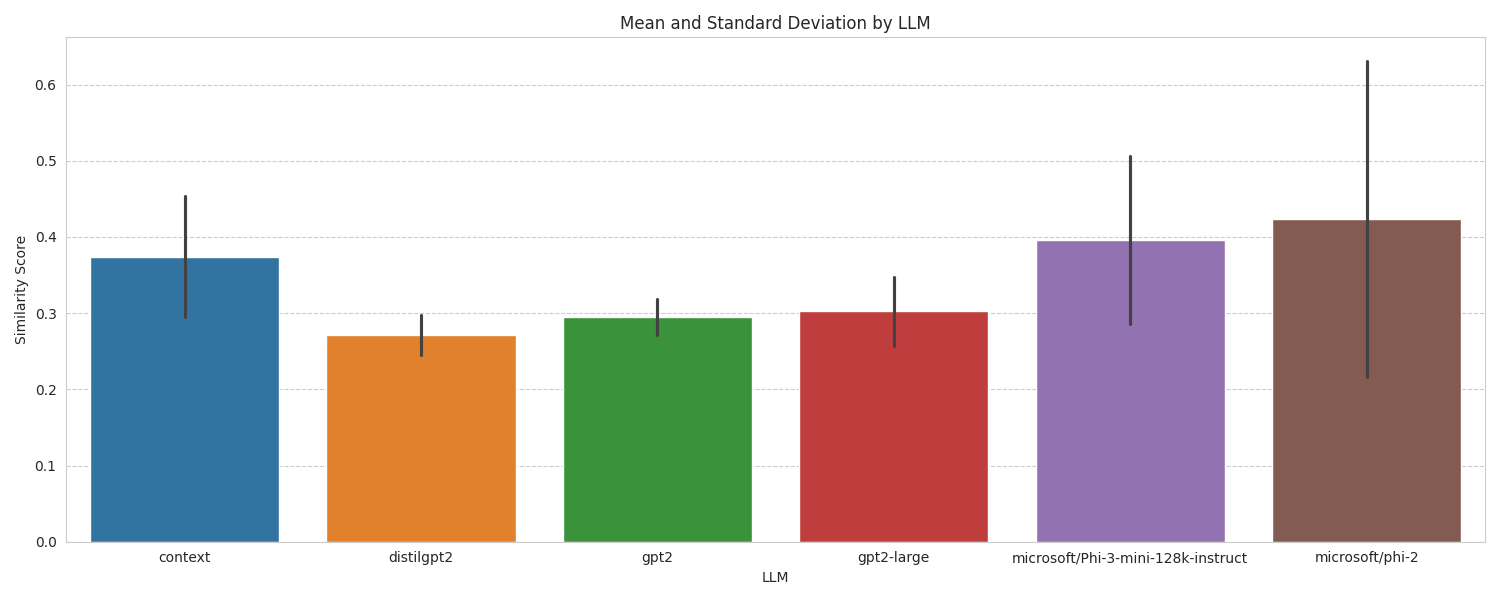
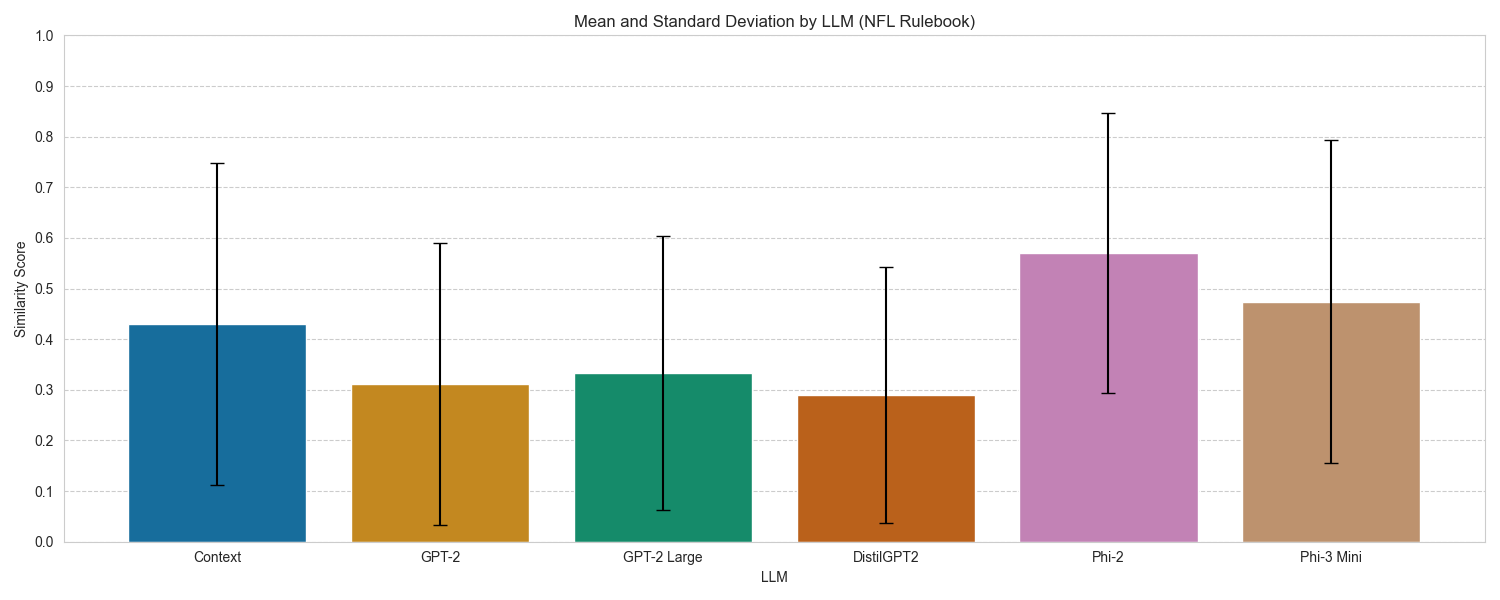
Adds an extra plotting script

diff --git a/evaluation/plots.py b/evaluation/plots.py
@@ -1,0 +1,81 @@
+import numpy as np
+import matplotlib.pyplot as plt
+import seaborn as sns
+
+"""
+Something in how I read my DataFrame gets tricky (specifically due to poor naming that is going to be a lot of work to get around) makes the plots wrong, 
+so I figured it would be easier to simply plug in the data to a quick script since there is relatively few data points to manually enter. Please ignore
+the poor coding standards of this script... it was quick and dirty. The data is pulled from results/<mode>_results_STATS.csv
+"""
+
+# NFL data
+
+means = [
+    0.4301993762484834,
+    0.31182425765650745,
+    0.333954009192088,
+    0.2902715327100286,
+    0.5697966280711603,
+    0.4744308906949208,
+]
+std_devs = [
+    0.3180499251083353,
+    0.27828509747004326,
+    0.2705386681673722,
+    0.2529973981304602,
+    0.2769086110888851,
+    0.318439841363638,
+]
+
+llm_labels = ["Context", "GPT-2", "GPT-2 Large", "DistilGPT2", "Phi-2", "Phi-3 Mini"]
+
+sns.set_style("whitegrid", {"grid.linestyle": "--", "grid.alpha": 0.7})
+plt.figure(figsize=(15, 6))
+sns.barplot(x=llm_labels, y=means, hue=llm_labels, palette="colorblind")
+plt.errorbar(
+    x=llm_labels, y=means, yerr=std_devs, fmt="none", ecolor="black", capsize=5
+)
+plt.title("Mean and Standard Deviation by LLM (NFL Rulebook)")
+plt.xlabel("LLM")
+plt.ylabel("Similarity Score")
+plt.ylim(0, 1.0)
+plt.yticks(np.arange(0, 1.1, 0.1))
+plt.tight_layout()
+
+plt.savefig("results/figures/nfl.png")
+
+# Syllabus data
+
+means = [
+    0.41155825803677243,
+    0.40195179261888064,
+    0.3451283392806848,
+    0.3994512071212133,
+    0.5432606716950734,
+    0.5735278179248174,
+]
+std_devs = [
+    0.22243069952505273,
+    0.232357247275062,
+    0.19116895630275693,
+    0.22843016587528148,
+    0.19562349715841557,
+    0.2251201426695241,
+]
+
+llm_labels = ["Context", "GPT-2", "GPT-2 Large", "DistilGPT2", "Phi-2", "Phi-3 Mini"]
+
+sns.set_style("whitegrid", {"grid.linestyle": "--", "grid.alpha": 0.7})
+plt.figure(figsize=(15, 6))
+sns.barplot(x=llm_labels, y=means, hue=llm_labels, palette="colorblind")
+plt.errorbar(
+    x=llm_labels, y=means, yerr=std_devs, fmt="none", ecolor="black", capsize=5
+)
+plt.title("Mean and Standard Deviation by LLM (Syllabus)")
+plt.xlabel("LLM")
+plt.ylabel("Similarity Score")
+plt.ylim(0, 1.0)
+plt.yticks(np.arange(0, 1.1, 0.1))
+plt.tight_layout()
+
+plt.savefig("results/figures/syllabus.png")
